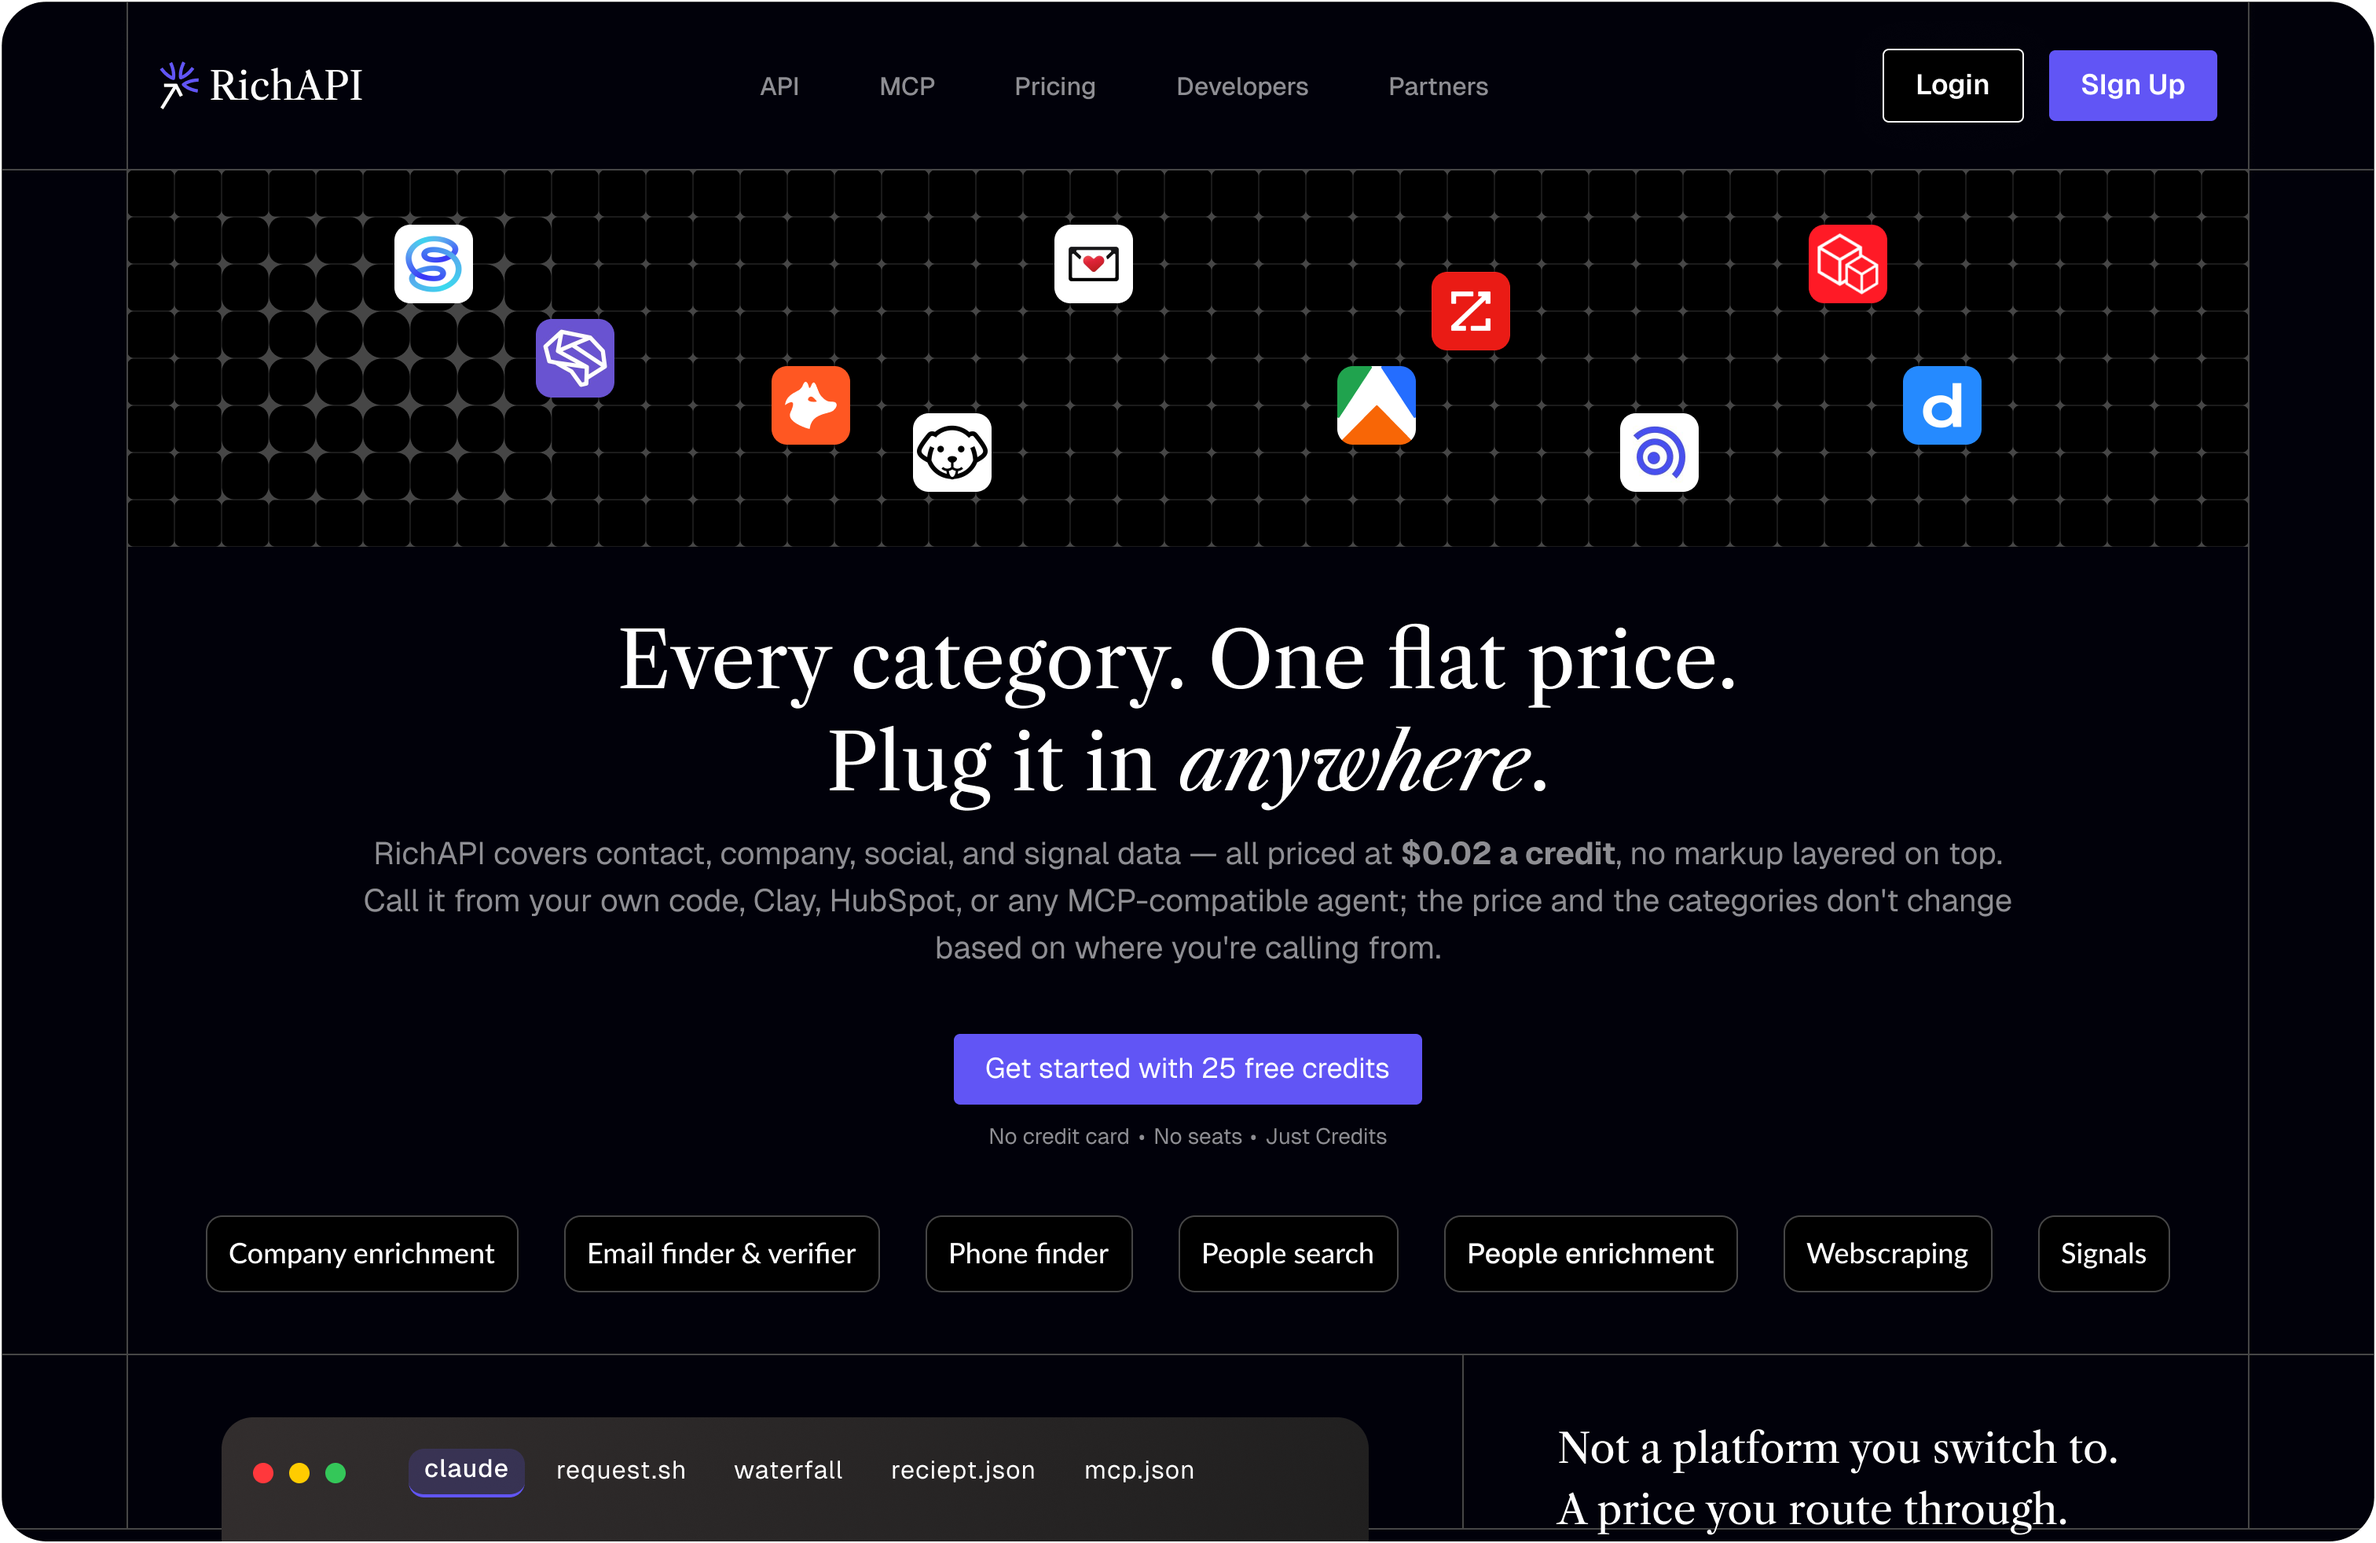
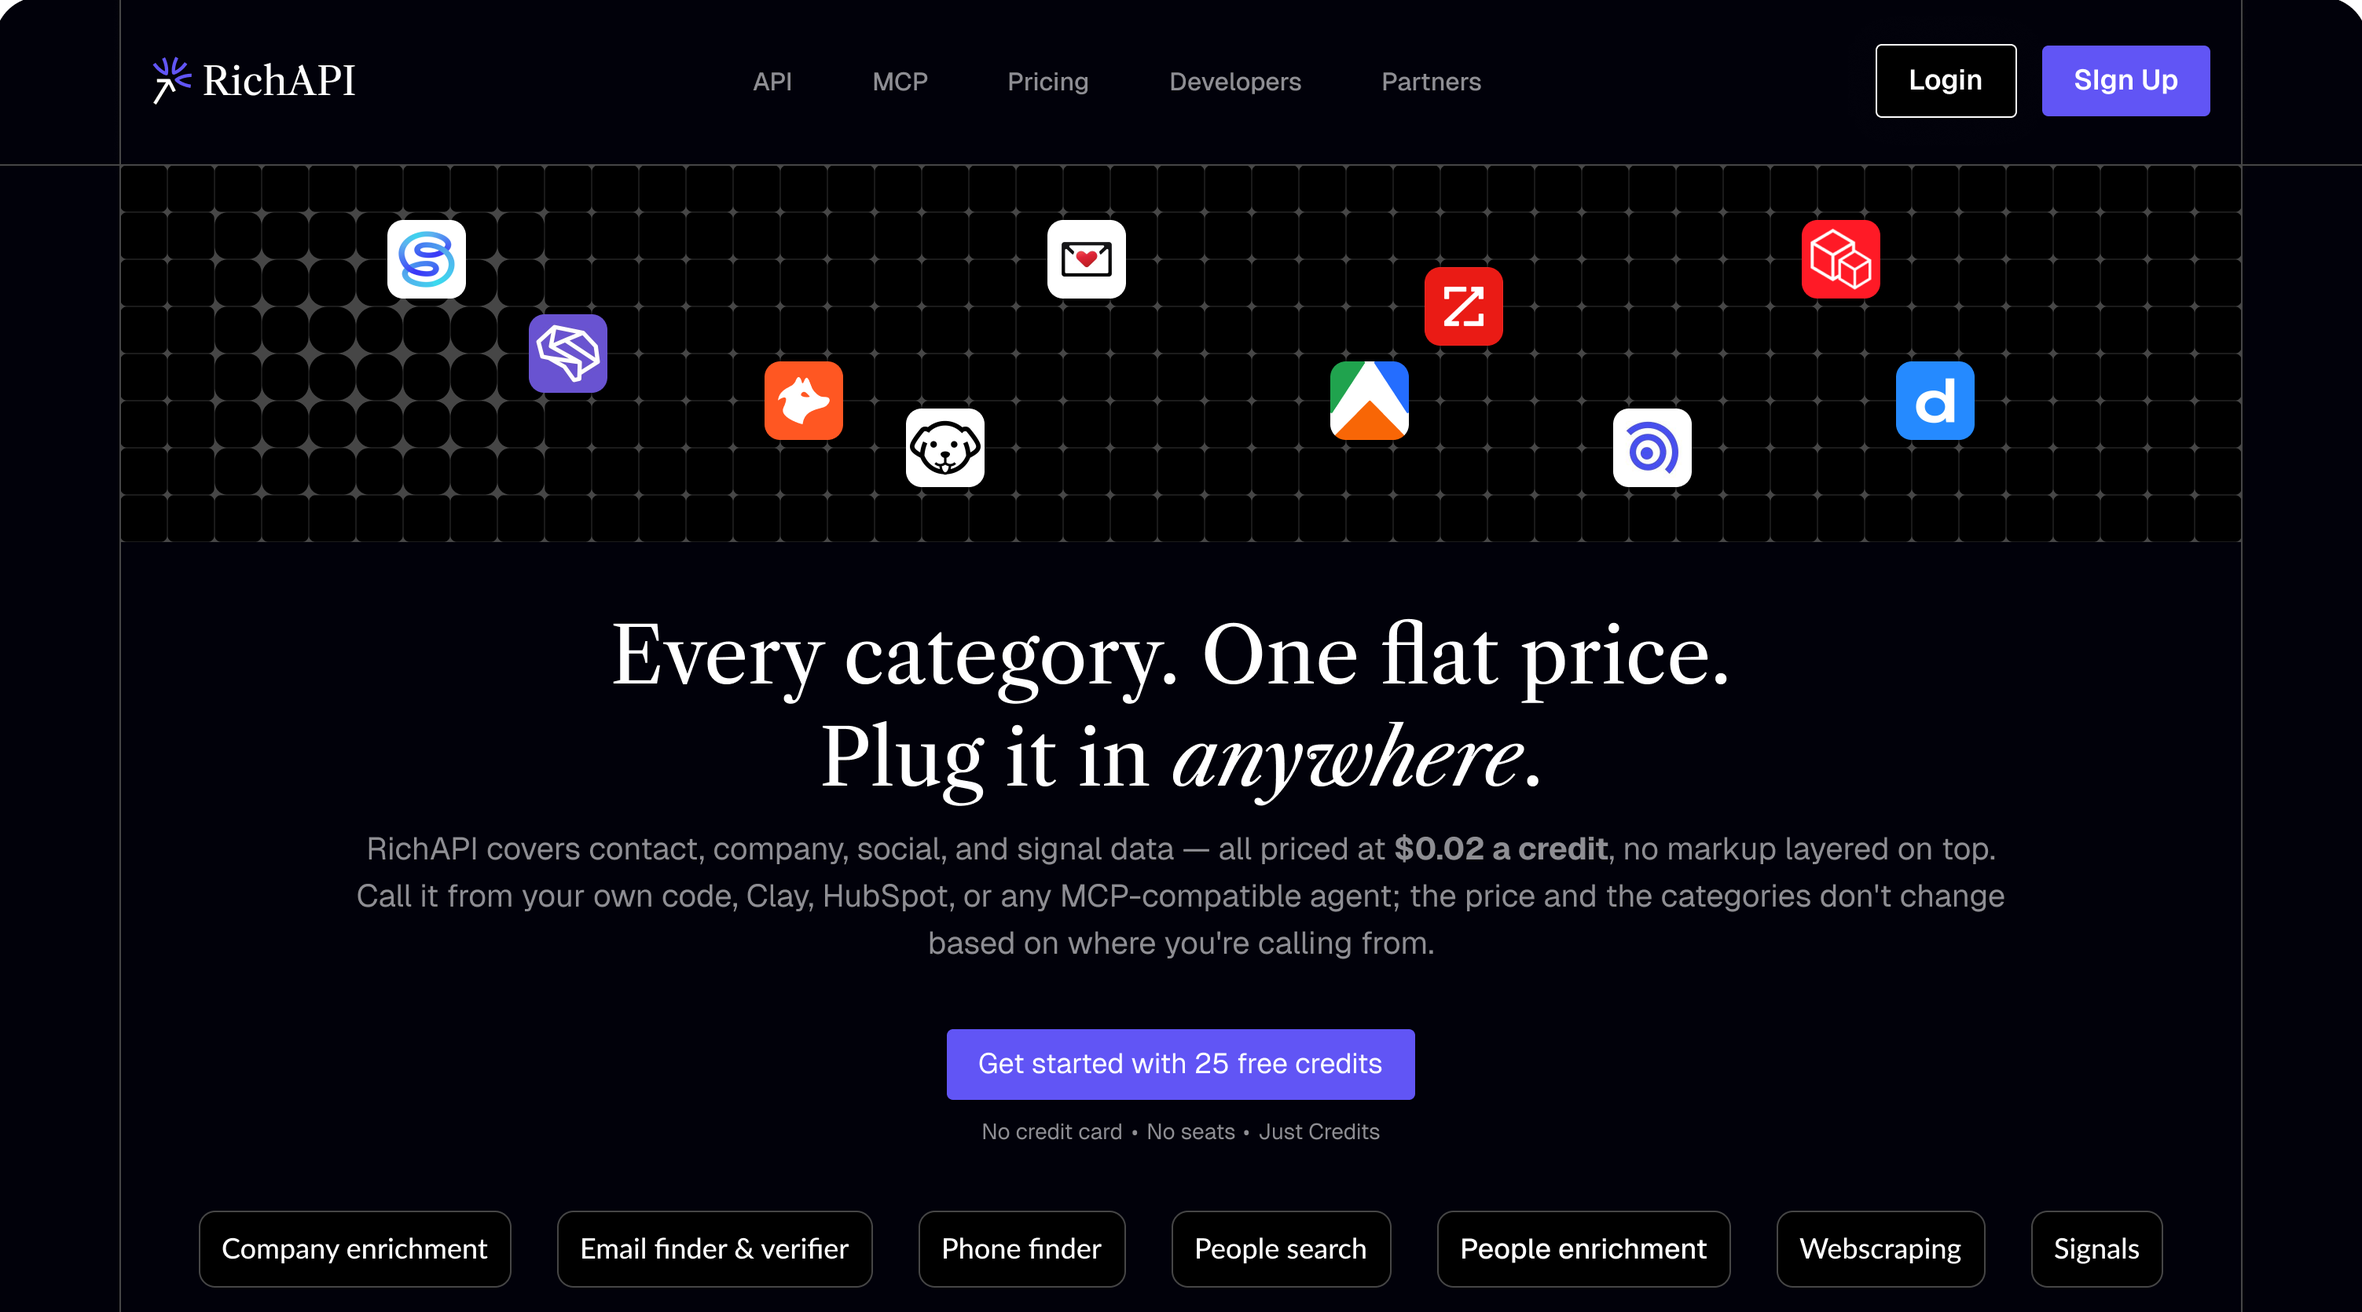
Lighten the text dividers and crop the RichAPI directions
Dividers between rows of text — section heads, list rows, captions — now
share one light 1px hairline across every project. The firm rule stays on
frames, outlines and the nav. The four RichAPI hero directions are cropped
to the page itself, without shadow or border, with rounded top corners.

diff --git a/src/styles/_variables.scss b/src/styles/_variables.scss
@@ -20,10 +20,13 @@
     --g-yellow: #ffe57a;
     --g-pink: #ff9fcb;
 
-    // Rule weight for every hairline on the page: section heads, list rows,
-    // plate frames. One value so the grid reads as one hand.
+    // Rule weight for the firm lines on the page: frames, outlines, the nav.
+    // One value so the grid reads as one hand.
     --rule-w: 1.5px;
     --rule: var(--rule-w) solid var(--ink);
+    // Dividers between rows of text — list rows, captions, section heads.
+    // Light and thin, so the content leads and the frames stay the firm line.
+    --hairline: 1px solid color-mix(in srgb, var(--ink) 14%, transparent);
 
     // Older token names, still used by the case-study pages. Each points at
     // its role in the new palette, so those pages pick up the rebrand without

diff --git a/src/styles/_components.scss b/src/styles/_components.scss
@@ -25,7 +25,7 @@
     gap: u(24);
     width: 100%;
     padding-top: u(14);
-    border-top: var(--rule);
+    border-top: var(--hairline);
 }
 
 // Section heading in the display face.
